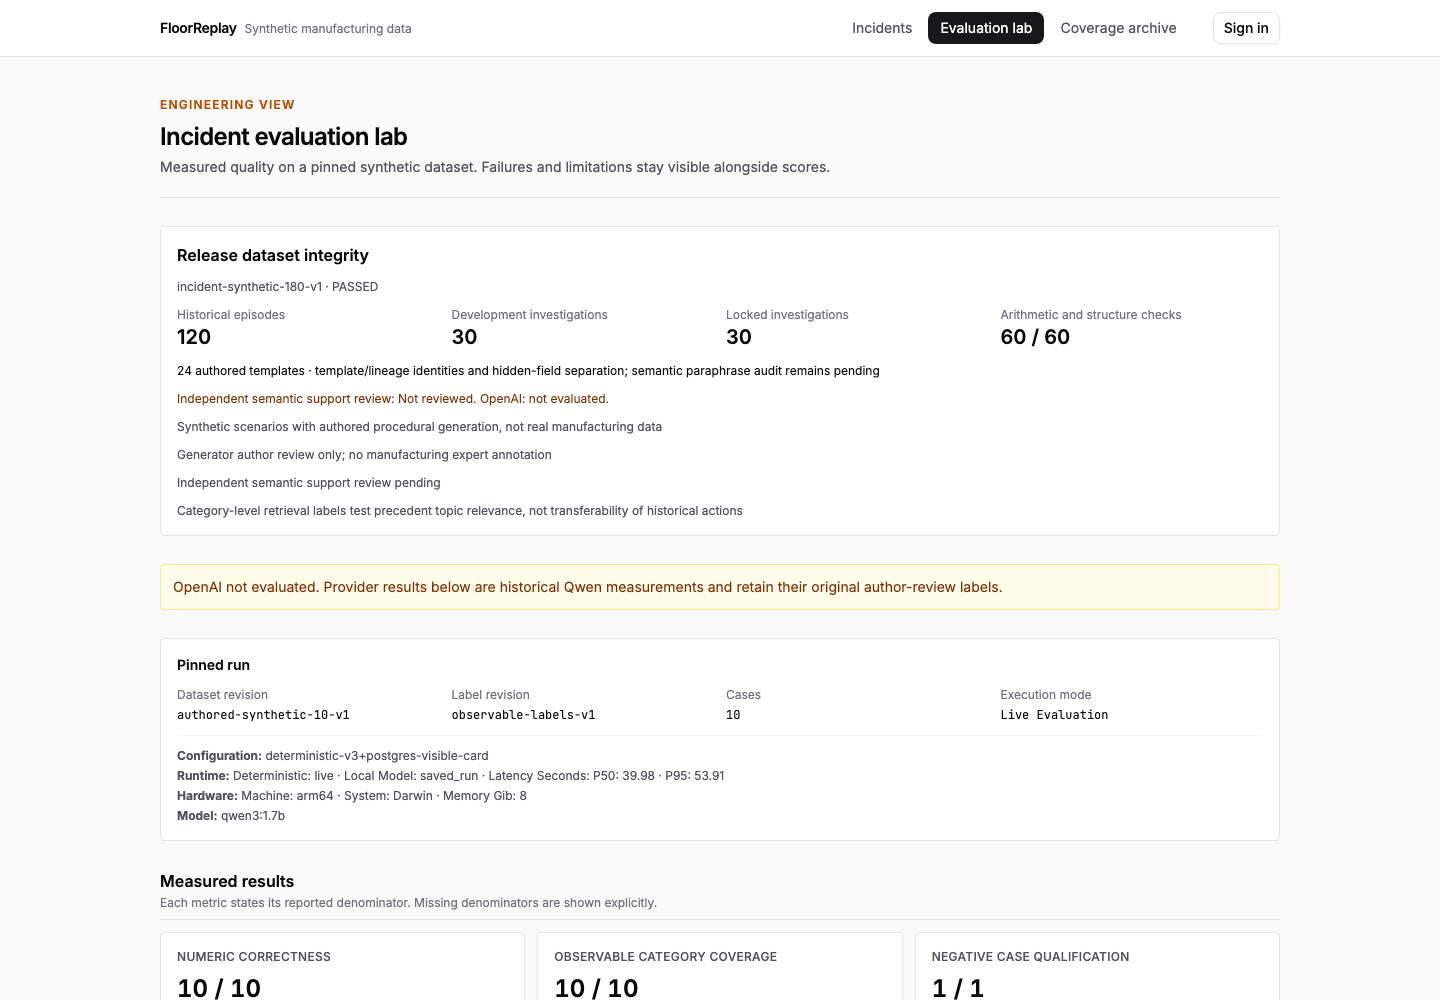
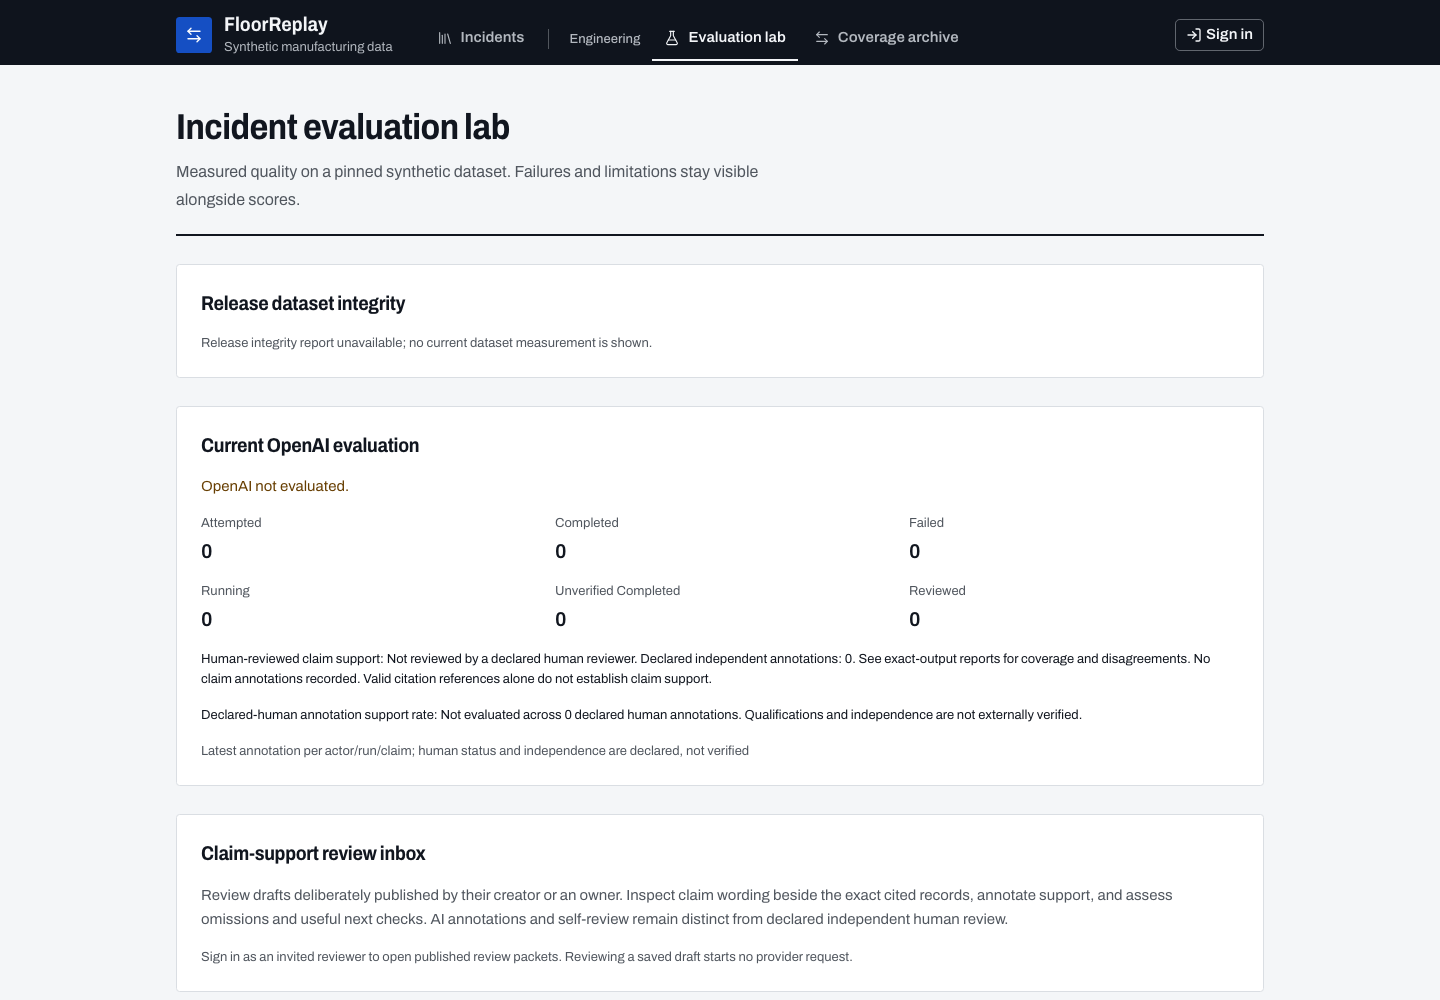
docs: rewrite DESIGN.md for the production-board system and refresh screenshots
DESIGN.md now describes the system as built: tokens, type, shell,
components, states and checks. Recapture docs/demo screenshots from the
saved demo data and note that the recording still shows the old UI.

diff --git a/DESIGN.md b/DESIGN.md
@@ -1,11 +1,73 @@
 # FloorReplay design
 
-FloorReplay is an evidence workbench. Its visual identity follows the manufacturing investigation: recorded output, source rows, knowledge cutoffs, immutable revisions, and human decisions. It uses warm neutral page surfaces, white documents, charcoal navigation, and restrained amber for evidence limitations and observed shortfall. Status text always explains color.
+FloorReplay is an evidence workbench for a production supervisor. Its visual identity is the hourly production board: the ruled output sheet and tally board a sewing line already reads. Ink-strong type, large tabular figures, hard horizontal rules, and one cobalt accent for interaction. Product truth, wording and behavior are defined in [PRODUCT.md](PRODUCT.md); this file records how they are drawn.
 
-Inter is the interface typeface. JetBrains Mono is self-hosted for source identifiers, formulas, and structured records. Headings use a clear size hierarchy with modest negative tracking. Numeric tables use tabular figures. The interface avoids decorative charts, confidence gauges, neon accents and staged entrances.
+## Ground rules
 
-The shell shares one 72rem content grid. Mobile navigation wraps into its own row. Pages have a title, explanation, task controls, and report content in that order. Incident investigations offer direct section links. Related production measurements form one document row with internal dividers.
+- Light theme only. The supervisor works at a desk or tablet in daylight; there is no dark mode and no `.dark` token set.
+- Desktop first. Tablet and phone get a real reading layout and 44px touch targets (`pointer: coarse`), not a scaled-down desktop.
+- Every status is a written label. Color supplements text and never carries meaning alone.
+- No decorative gauges, confidence percentages or ornamental charts. A chart is allowed only when it is drawn from the incident's own records and links to them.
+- Wording is product copy, not decoration. Design changes alter presentation, not headings, labels, buttons or caveats.
 
-Controls provide visible focus and short feedback. Frequent inspection actions stay immediate. Popovers dismiss with Escape, restore trigger focus, and align to their trigger. Motion respects reduced-motion preferences. Touch controls have larger hit areas. Tables scroll within their containers; incident library records have a narrow-screen reading layout.
+## Color
 
-Saved deterministic bundles, live analyses, historical model outputs, and unavailable capabilities retain explicit labels. Design changes must preserve evidence provenance and synthetic-data notices.
+Tokens live in `frontend/src/index.css` as OKLCH values. Neutrals are tinted toward the ink hue (255-262) so every grey belongs to the palette. The Tailwind `zinc` scale is re-mapped to the same neutrals, so legacy `zinc-*` classes render in palette.
+
+| Role | Token | Use |
+|---|---|---|
+| Paper | `--background` `oklch(0.972 0.004 250)` | Page ground |
+| Document | `--card` white | Panels, tables, forms |
+| Ink | `--foreground` `oklch(0.2 0.02 262)` | Text and heavy rules |
+| Board | `--board` `oklch(0.19 0.02 262)` | Top bar, active step |
+| Accent | `--primary` `oklch(0.47 0.19 262)` (cobalt) | Primary actions, links, recorded output bars, focus ring |
+| Limit | `--limit` / `-foreground` / `-border` (amber) | Evidence limits, next checks, observed shortfall |
+| Danger | `--danger*` (red) | Errors, rejected, contradictions |
+| Success | `--success*` (green) | Supported findings |
+| Info | `--info*` (cobalt tint) | Neutral notices, abstain |
+
+Each meaning color has a text-safe foreground (at least 4.5:1 on its own surface). Amber means an evidence limit and nothing else. Use the semantic classes (`bg-limit text-limit-foreground border-limit-border`), not palette classes.
+
+## Typography
+
+- **Archivo Variable** (self-hosted, `@fontsource-variable/archivo/wdth.css`) for the interface. Board figures and headings use the width axis (`font-stretch-semi-condensed`, bold); body text stays normal width.
+- **JetBrains Mono** for source identifiers, formulas and structured records only.
+- Scale: `text-xs` 13px for captions and secondary table columns, `text-sm` 15px for body in dense panels, `text-base` 16px for introductions. Nothing below 13px. Headings use `letter-spacing: -0.015em`.
+- Numeric tables and figures use tabular numerals.
+
+## Layout and shell
+
+- One 72rem content column. Pages read in order: title, explanation, task controls, report content.
+- The top bar is the board: ink background, logo, primary links (Incidents, Workspaces, Operations), then an **Engineering** group (Evaluation lab, Coverage archive) after a divider. All links stay visible inside one `nav[aria-label="Primary"]`; on phones the Engineering group takes its own row.
+- Pages and sections open with a heavy ink rule (`PageHeader`: 2px under the title; `Section`: 2px above the heading). Panels are white documents with a 1px border and a small (about 4px) radius.
+- The incident page has a sticky section rail (`SectionRail`) that highlights the section in view. It is horizontal and scrolls on narrow screens.
+- `/coverage/*` shows an archive notice and otherwise inherits the same tokens. It is not redesigned.
+
+## Components
+
+Shared primitives are in `frontend/src/components/board.tsx` and `components/ui/`.
+
+- `PageHeader`, `Section`: ruled headings with a short explanation.
+- `BoardStat`: one cell of a ruled ledger row, with label, large figure and unit or status text. The shortfall cell uses the limit tone.
+- `StatusTag`: bordered tag with text, tones `neutral | limit | danger | success | info`.
+- `Limits`: inline callout for evidence limits and cautions. Caveats are always shown inline, never collapsed.
+- `EvidenceLink` / `EvidenceList`: mono ID chips that open the source drawer (`.evidence-link`).
+- `NativeSelect`, `FieldLabel`, shadcn `Input`, `Button` (variants include `board` for the dark bar), `Alert` (variants `limit`, `info`, `success`, `destructive`).
+- `BucketStrip`: plan against recorded good output for each 15-minute interval. Bars are recorded output, a black line is the baseline plan, amber is the shortfall in the interval. Intervals the report did not count are dashed, labeled "Not counted" and explained in text; missing output is never drawn as zero, and records that arrived after the cutoff are not shown. Each column opens its source record.
+- `ErrorBoundary`, `NotFoundPage`: error and 404 states.
+
+## Interaction and states
+
+- Visible 2px focus ring in cobalt, a skip link, and `aria-current` on navigation. Popovers dismiss with Escape and restore focus.
+- Short feedback on controls; frequent inspection actions are immediate. No staged entrances. Reduced motion is honored globally.
+- Tables scroll inside their container and are keyboard-scrollable. Incident library records have a narrow-screen card layout.
+- Every data view has loading, empty, error and unavailable states with written explanations.
+- Print: the supervisor report prints from `.supervisor-export` / `.supervisor-report`; the print stylesheet in `index.css` depends on those class names and on `.app-header`.
+
+## Provenance
+
+Saved deterministic bundles, live analyses, historical model outputs and unavailable capabilities keep explicit labels. Synthetic-data and archive notices stay visible. Design changes must preserve evidence provenance and the notices defined in PRODUCT.md.
+
+## Checks
+
+`pnpm visual` (in `frontend/`) renders every route at 1440 and 390 pixels against the saved demo data and writes screenshots plus an axe summary. Before and after captures from the redesign are in `docs/ui-baseline/`. The expected axe result is no violations.

diff --git a/docs/demo/README.md b/docs/demo/README.md
@@ -14,3 +14,7 @@ Artifacts produced by the recording:
 Historical Qwen output is labeled as an archive and does not establish OpenAI quality. This recording verifies the local browser workflow. Actual OpenAI generation, embeddings, independent semantic review and a hosted smoke test each require separate evidence.
 
 To record against an isolated application database, set `E2E_BASE_URL`, `E2E_API_BASE`, `E2E_USERNAME` and `E2E_PASSWORD` in the shell, then run `node docs/demo/record-demo.mjs` from the repository root. Credentials should identify a disposable owner. The password field is masked, session tokens stay in browser memory, and the recorder refuses to generate a draft when provider generation is enabled. The recording creates a fresh deterministic analysis and appends its submission and approval records to the isolated database.
+
+## Screenshot refresh
+
+`incident-workbench.png` and `evaluation.png` were recaptured after the production-board redesign from the app's saved synthetic demo data, with the API unavailable. They show the saved deterministic report, not the authenticated session the recorder produces. `flooreplay-local-demo.webm` and `recording-manifest.json` still describe the earlier recording of the previous interface and should be regenerated with `record-demo.mjs` against an isolated backend.
